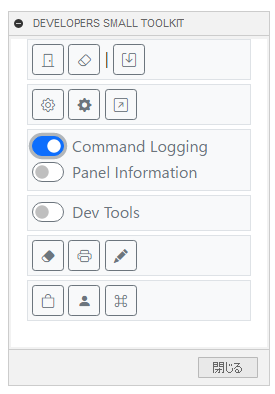
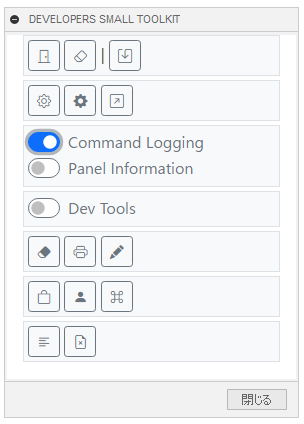
add Document Attributes Command

Changed region(s): [[0.0, 0.0, 0.9891, 1.0]]

diff --git a/Developers_Small_ToolKit/index.html b/Developers_Small_ToolKit/index.html
@@ -147,12 +147,16 @@
           <div class="p-1 border bg-light">
             <!-- dev tools -->
             <div class="form-check form-switch customSwitch">
-              <input class="form-check-input btn-outline-secondary" 
-              type="checkbox" 
-              id="devTools" 
-              onchange="devTools()"
+              <input
+                class="form-check-input btn-outline-secondary"
+                type="checkbox"
+                id="devTools"
+                onchange="devTools()"
               />
-              <label class="form-check-label btn-outline-secondary" for="devTools">
+              <label
+                class="form-check-label btn-outline-secondary"
+                for="devTools"
+              >
                 Dev Tools
               </label>
             </div>
@@ -238,6 +242,34 @@
             </button>
           </div>
         </div>
+
+        <div class="col-12">
+          <div class="p-1 border bg-light">
+            <!-- Dump Document Attributes -->
+            <button
+              class="btn btn-outline-secondary btn-sm customBtn"
+              type="button"
+              data-bs-toggle="tooltip"
+              data-bs-placement="top"
+              title="Dump Document Attributes"
+              onclick="dumpDocAttrs()"
+            >
+              <i class="bi bi-text-left"></i>
+            </button>
+
+            <!-- Remove Document Attributes -->
+            <button
+              class="btn btn-outline-secondary btn-sm customBtn"
+              type="button"
+              data-bs-toggle="tooltip"
+              data-bs-placement="top"
+              title="Remove Document Attributes"
+              onclick="removeDocAttrs()"
+            >
+              <i class="bi bi-file-earmark-x"></i>
+            </button>
+          </div>
+        </div>
       </div>
     </div>
 
@@ -250,6 +282,22 @@
   </body>
 
   <script>
+    // Dump Document Attributes
+    function dumpDocAttrs() {
+      let args = {
+        value: true,
+      };
+      adsk.fusionSendData("dumpDocAttrs", JSON.stringify(args));
+    }
+
+    // Remove Document Attributes
+    function removeDocAttrs() {
+      let args = {
+        value: true,
+      };
+      adsk.fusionSendData("removeDocAttrs", JSON.stringify(args));
+    }
+
     // Export TxtCmd List
     function ExportTxtCmdLst() {
       let args = {
@@ -316,12 +364,12 @@
     }
 
     // dev tools
-    function devTools(){
-      let elmDevTools = document.getElementById("devTools")
+    function devTools() {
+      let elmDevTools = document.getElementById("devTools");
       let args = {
-        value: elmDevTools.checked
-      }
-      adsk.fusionSendData("devTools", JSON.stringify(args))
+        value: elmDevTools.checked,
+      };
+      adsk.fusionSendData("devTools", JSON.stringify(args));
     }
 
     // panel info

diff --git a/Developers_Small_ToolKit/Developers_Small_ToolKit.py b/Developers_Small_ToolKit/Developers_Small_ToolKit.py
@@ -32,7 +32,7 @@ _paletteInfo = {
     'isResizable': True,
     'width': 260,
     'height': 330,
-    'useNewWebBrowser': True,  # False
+    'useNewWebBrowser': True, # False
     'dockingState': adsk.core.PaletteDockingStates.PaletteDockStateRight
 }
 
@@ -168,12 +168,10 @@ class MyHTMLEventHandler(adsk.core.HTMLEventHandler):
                 data = json.loads(htmlArgs.data)
                 if data['value']:
                     app.log('-- start dev tools --')
-                    app.executeTextCommand(
-                        u'DevOptions.WebDeveloperExtras /on')
+                    app.executeTextCommand(u'DevOptions.WebDeveloperExtras /on')
                 else:
                     app.log('-- stop dev tools --')
-                    app.executeTextCommand(
-                        u'DevOptions.WebDeveloperExtras /off')
+                    app.executeTextCommand(u'DevOptions.WebDeveloperExtras /off')
 
             elif htmlArgs.action == 'panelInfo':
                 # panel info
@@ -240,8 +238,62 @@ class MyHTMLEventHandler(adsk.core.HTMLEventHandler):
                 if data['value']:
                     exportTxtCmdLst()
 
+            elif htmlArgs.action == 'dumpDocAttrs':
+                data = json.loads(htmlArgs.data)
+                if data['value']:
+                    dumpDocAttrs()
+
+            elif htmlArgs.action == 'removeDocAttrs':
+                data = json.loads(htmlArgs.data)
+                if data['value']:
+                    removeDocAttrs()
+
         except:
             _ui.messageBox('Failed:\n{}'.format(traceback.format_exc()))
+
+def dumpDocAttrs():
+    global _app
+
+    doc: adsk.fusion.FusionDocument = _app.activeDocument
+    attrs: adsk.core.Attributes = doc.attributes
+
+    _app.log('TextCommandWindow.Clear')
+    _app.log('-- Remove Document Attributes --')
+    _app.log(f'before count:{attrs.count}')
+    attr: adsk.core.Attribute
+    for gpName in attrs.groupNames:
+        _app.log(f'GroupName : {gpName}')
+        for attr in attrs.itemsByGroup(gpName):
+            attr.deleteMe()
+    _app.log(f'after count:{attrs.count}')
+
+def removeDocAttrs():
+    global _app
+
+    doc: adsk.fusion.FusionDocument = _app.activeDocument
+    attrs: adsk.core.Attributes = doc.attributes
+
+    # Query
+    ui: adsk.core.UserInterface = _app.userInterface
+    msg = f'There are {attrs.count} attributes. Do you want to delete them all?'
+    res = ui.messageBox(
+        msg,
+        '',
+        adsk.core.MessageBoxButtonTypes.YesNoButtonType,
+        adsk.core.MessageBoxIconTypes.WarningIconType
+    )
+    if res == adsk.core.DialogResults.DialogNo:
+        return
+
+    _app.log('TextCommandWindow.Clear')
+    _app.log('-- Remove Document Attributes --')
+    _app.log(f'before count:{attrs.count}')
+    attr: adsk.core.Attribute
+    for gpName in attrs.groupNames:
+        _app.log(f'GroupName : {gpName}')
+        for attr in attrs.itemsByGroup(gpName):
+            attr.deleteMe()
+    _app.log(f'after count:{attrs.count}')
 
 
 def exportTxtCmdLst():
@@ -260,8 +312,6 @@ def exportTxtCmdLst():
         f.write(data)
 
 # get save file path
-
-
 def get_Filepath(initialFilename='') -> str:
     ui: adsk.core.UserInterface = adsk.core.Application.get().userInterface
 
@@ -434,6 +484,7 @@ def closeAllDocs():
             pass
 
 
+
 def CreatePalette():
     try:
         global _ui, _paletteInfo
@@ -471,7 +522,6 @@ def CreatePalette():
     except:
         _ui.messageBox('Command executed failed: {}'.format(
             traceback.format_exc()))
-
 
 class ShowPaletteCommandExecuteHandler(adsk.core.CommandEventHandler):
     def __init__(self):
@@ -518,7 +568,6 @@ class ShowPaletteCommandCreatedHandler(adsk.core.CommandCreatedEventHandler):
 class MyWorkspaceActivatedHandler(adsk.core.WorkspaceEventHandler):
     def __init__(self):
         super().__init__()
-
     def notify(self, args):
         try:
             CreatePalette()

diff --git a/Developers_Small_ToolKit/README.md b/Developers_Small_ToolKit/README.md
@@ -49,7 +49,8 @@
 - Open User Directory: ユーザーディレクトリーを開きます。
   - 'JSLoadedScriptsinfo'　が、登録されたスクリプト/アドイン管理ファイルです。
 - Open Active Command Resource Folder: 実行中のコマンドダイアログのリソースフォルダを開きます。
-
+- Dump Document Attributes: アクティブなドキュメントの属性情報をダンプします。
+- Remove Document Attributes: アクティブなドキュメントの属性情報を全て削除します。
 ## 注意 ：
 
 - 未完成の為、今後も変更されます。
